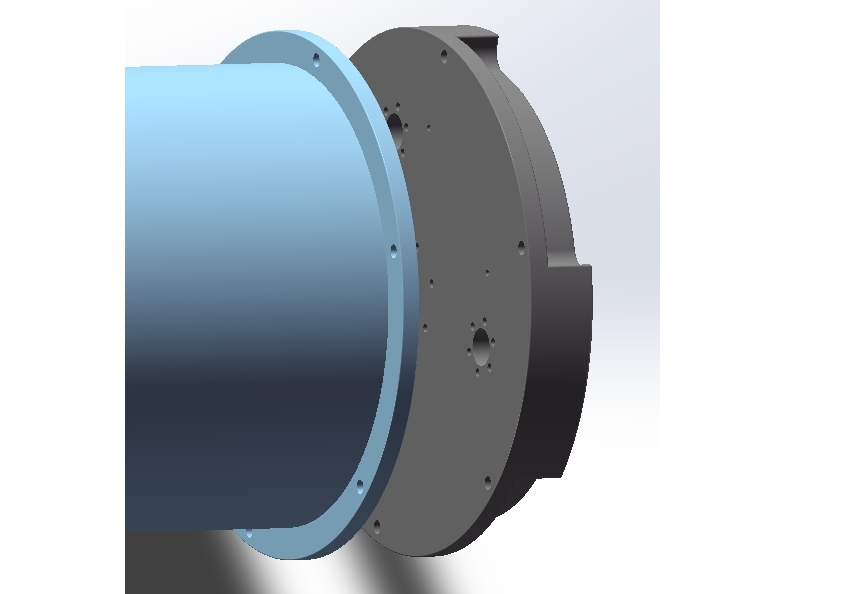
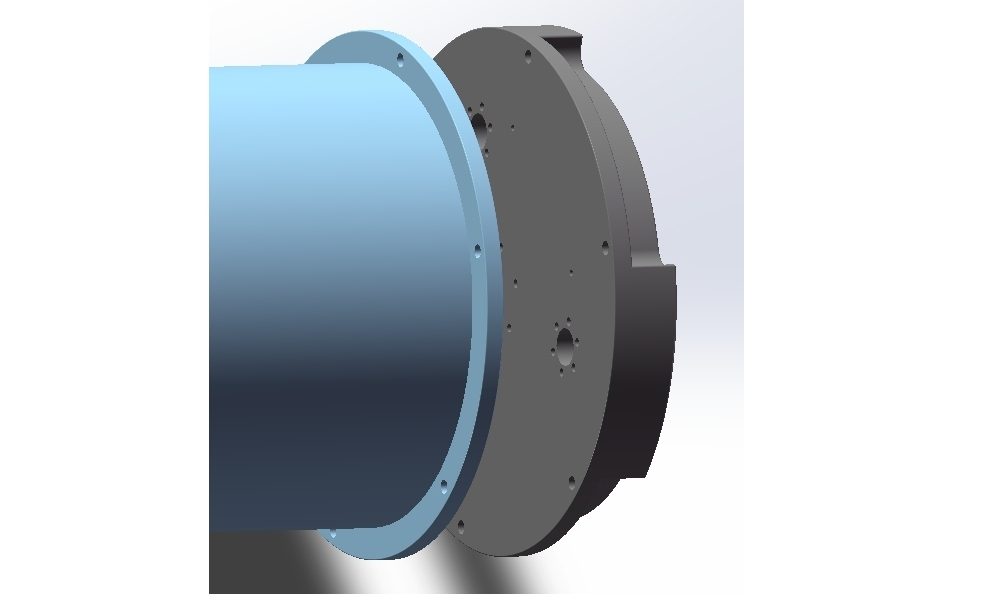
## November 11, 2026 update docs/design/tolerances-on-linear-sizes.md

diff --git a/docs/design/tolerances-on-linear-sizes.md b/docs/design/tolerances-on-linear-sizes.md
@@ -11,7 +11,7 @@
 
     - 公差设计需要平衡  功能、成本(可加工性)与风险三者之间的关系。
     - 本文案例-2，看似简单，若严格执行国家标准，会涉及形位公差，可知线性尺寸公差并非孤立的存在，很多时候只是被忽略或是处于次要的位置。
-    - 本文意在强调设计时应有<mark>留差的意识</mark>，尤其是有相互配合关系的地方，这对于可装配性比较重要。
+    - 本文意在强调设计时应有<mark>公差预留意识</mark>，尤其是有相互配合关系的地方，这对于可装配性比较重要。
     - 本文无意替代相应国标或是ISO标准，仅部分引用其经典术语，用于更准确、清晰的交流设计意图。
 
 
@@ -51,7 +51,7 @@
 
 ### 2.2. 关于公差有如下定义
 
-- 公差/tolerance：上极限尺寸与下极限尺寸之差。注：是一个没有符合的绝对值。(GB/T 1800.1-2020，3.2.8部分)
+- 公差/tolerance：上极限尺寸与下极限尺寸之差。注：是一个没有符号的绝对值。(GB/T 1800.1-2020，3.2.8部分)
 - 标准公差/standard tolerance：IT/international tolerance，线性尺寸公差ISO代号体系中的任一公差。(GB/T 1800.1-2020，3.2.8.2部分)
 - 标准公差等级/standard tolerance grade：用常用标示符表征的线性尺寸公差组。(GB/T 1800.1-2020，3.2.8.3部分)
     - 注：在ISO代号体系中，由IT及其后面的数字组成，如IT7。
@@ -76,7 +76,7 @@
     - 过渡配合/transition fit。
 - 基孔制配合/hole-basis fit system：孔的基本偏差为零的配合，即其下极限偏差为零。可能示例：H7/h6、H7/k5等。(GB/T 1800.1-2020，3.4.1.1部分)
 
-### 2.3. 关于未注尺寸公差
+### 2.4. 关于未注尺寸公差
 
 - 一般公差/general tolerances：指在车间<mark>通常加工条件下</mark>可保证的公差。采用一般公差的尺寸,在该尺寸后不需注出其极限偏差数值。(GB/T 1804-2000，3.2部分)
 - 一般公差分精密f、中等m、粗糙c、最粗v共4个公差等级。按未注公差的线性尺寸和角度尺寸分别给出了各公差等级的极限偏差数值。(GB/T 1804-2000，5部分)  注：具体数据参考国标。
@@ -109,7 +109,7 @@
         <figcaption>Underwater-Housing-End-Cover-With-Locating-Boss</figcaption>
     </figure>
 
-    - 在此设计案例中，V2版本的端盖定位凸台的直径设置为182 mm、高度设置为3 mm，舱体内孔想当然的设置为184 mm，由未注公差GB/T 1804-2000控制。如下图所示。
+    - 在此设计案例中，V2版本的端盖定位凸台的直径设置为182 mm、高度设置为3 mm，舱体内孔未经公差分析即设置为184 mm，由一般公差 GB/T 1804-2000 控制。如下图所示。
 
     <figure markdown="span">
         ![Underwater-Housing-V2-Locating-Boss-Dimensioning](../images/docs_design/tolerances-on-linear-sizes_Underwater-Housing-V2-Locating-Boss-Dimensioning.jpg){ width="720" }
@@ -130,7 +130,7 @@
 
     - 此种设计能装配并起到导向、定位、提供径向力的功能，同时有可追溯的公差依据，接手的工程师也能理解设计意图。
     - 由于凸台与孔之间的单边间隙为0.05～0.1435 mm，零部件可能发生相对偏移，但在实际装配中，螺钉夹紧力会将端盖压紧在舱体上，凸台与孔之间的径向间隙会被压缩到接近零，从而实现端盖与舱体之间的径向定位。
-    - 至于为何是H9/e8的公差配合，这是GB/T 1800.1-2020中基孔制配合优先配合、间隙配合的一个选项，标准中 图12，主要是考虑到加工成本、装配难度、定位精度要求等因素的综合平衡。此处的配合间隙特意设置的偏大，若对定位精度要求更高，可考虑国标推荐的优先配合H8/f7等选项。
+    - 至于为何是H9/e8的公差配合，这是GB/T 1800.1-2020中基孔制配合优先配合、间隙配合的一个选项，标准中 图12，主要是考虑到加工成本、装配难度、定位精度要求等因素的综合平衡。此处的配合间隙有意选取了较大值，若对定位精度要求更高，可考虑国标推荐的优先配合H8/f7等选项。
     - IT 9级公差对于舱体内孔、IT 8级公差对于凸台的外径，都属于经济性加工的范围。
     - 对于舱体非配合段的公差，可按GB/T 1804-2000未注公差的线性和角度尺寸的公差控制；应避免整个舱体内壁面都执行H9的公差。
     - 公差配合的标注参考作者整理的文章：[基本标注](https://www.bridgezhang.com/modeling/dimensioning/)。
@@ -148,6 +148,11 @@
 
 仍以案例解析-1中，水下舱体端盖上的螺钉过孔举例，准备采用8个均布的M6的螺钉来连接端盖和舱体。如下图所示。
 
+<figure markdown="span">
+    ![Underwater-Housing-M6-Screw-Assembly-Illustration](../images/docs_design/tolerances-on-linear-sizes_Underwater-Housing-M6-Screw-Assembly-Illustration.jpg){ width="720" }
+    <figcaption>Underwater-Housing-M6-Screw-Assembly-Illustration</figcaption>
+</figure>
+
 | 项目 | 数值 |
 | --- | --- |
 | 螺钉通孔 | 8 × Ø6.6 H13，执行 GB/T 5277 中等装配系列，圆周均布 |
@@ -163,7 +168,7 @@
 - 想当然标 ±0.05 → 该数值接近 js9 标准公差带的对称偏差（Ø221 在 180～250 mm 分段，IT9 = 0.115 mm，js9 对称偏差为 ±0.0575 ≈ ±0.058）。对铣削而言，IT7～IT8 均为经济加工范围，IT9 比 IT7/IT8 低两个等级，加工更容易实现；
 - 此外，孔组定位圆（PCD）直径公差并非唯一考量因素，螺钉通孔的圆周均布度（位置公差）也会影响螺钉的装配性。
 
-如何考量呢？下面给出3中标注形式：
+如何考量呢？下面给出3种标注形式：
 
 > 形式1：不标注，统一执行 GB/T 1804-m。如下图所示。
 
@@ -187,7 +192,7 @@
 - 以端盖底面为基准A，端盖中心轴线为基准B（由定位凸台/止口建立）；
 孔组定位圆（PCD）Ø221 标注为理论正确尺寸（加方框）；
 - 对 8 个 Ø6.6 H13 通孔标注位置度：相对于基准 A、B，位置度公差 Ø0.3 Ⓜ；
-- 含义：当各孔处于最大实体状态（孔径最小 Ø6.6）时，各孔中心必须落在以理论正确位置为圆心、直径 Ø0.3 mm 的公差带内；当孔径做大时，位置度公差带可按偏离量补偿放大。补偿量 = 实际孔径 − 最大实体孔径（Ø6.6），上限由 H13 公差决定；
+- 含义：当各孔处于最大实体状态（孔径最小 Ø6.6）时，各孔中心必须落在以理论正确位置为圆心、直径 Ø0.3 mm 的公差带内；当孔径做大时，位置度公差带可按偏离量补偿放大。补偿量 = 实际孔径 − 最大实体孔径（Ø6.6）（即偏离最大实体状态的距离），上限由 H13 公差决定；
 - 举例：当实际孔径为 Ø6.7 时，偏离 MMS 0.10 mm，位置度公差带补偿放大为 Ø0.4 mm；当孔径做到 H13 上限 Ø6.82 时，位置度公差带可达 Ø0.52 mm；
 - 原理：螺钉通孔本身有间隙，孔径做大后，即使孔组分布略有偏移，螺钉仍能穿过。最大实体要求正是利用这一间隙来放宽位置度要求，在批量生产中平衡加工经济性与装配性；
 - 批量检验：可制作一个综合量规（基准销 + 定位销 + 通孔组通规），一次性验证圆周均布度与孔径的综合边界，无需逐孔测量坐标；
@@ -210,7 +215,7 @@
 ## 5. 边界与风险
 
 - 公差并非越严越好：尺寸公差收紧通常会提高加工与检验成本；若实际形状误差、毛刺或表面处理未受控，仍可能发生装配困难。
-- 定位与承载应分别分析：止口可用于径向定位，但是否适合承担较大侧向力，应结合接触长度、材料强度、接触压力及结构刚度判断。
+- 定位与承载应分别分析：止口可用于径向定位，但是否适合承担较大侧向力，应结合接触长度、材料强度、接触压力及结构刚度判断；建议结合具体工况进行接触应力校核。
 - 止口不宜无必要地加长：长度增加可能改善倾斜约束，但也会提高对圆柱度、直线度、同轴关系和加工质量的要求。
 - 密封设计优先于配合习惯：对于水下设备，必须把密封圈、耐压、温度变化和材料特性一并考虑。
 
